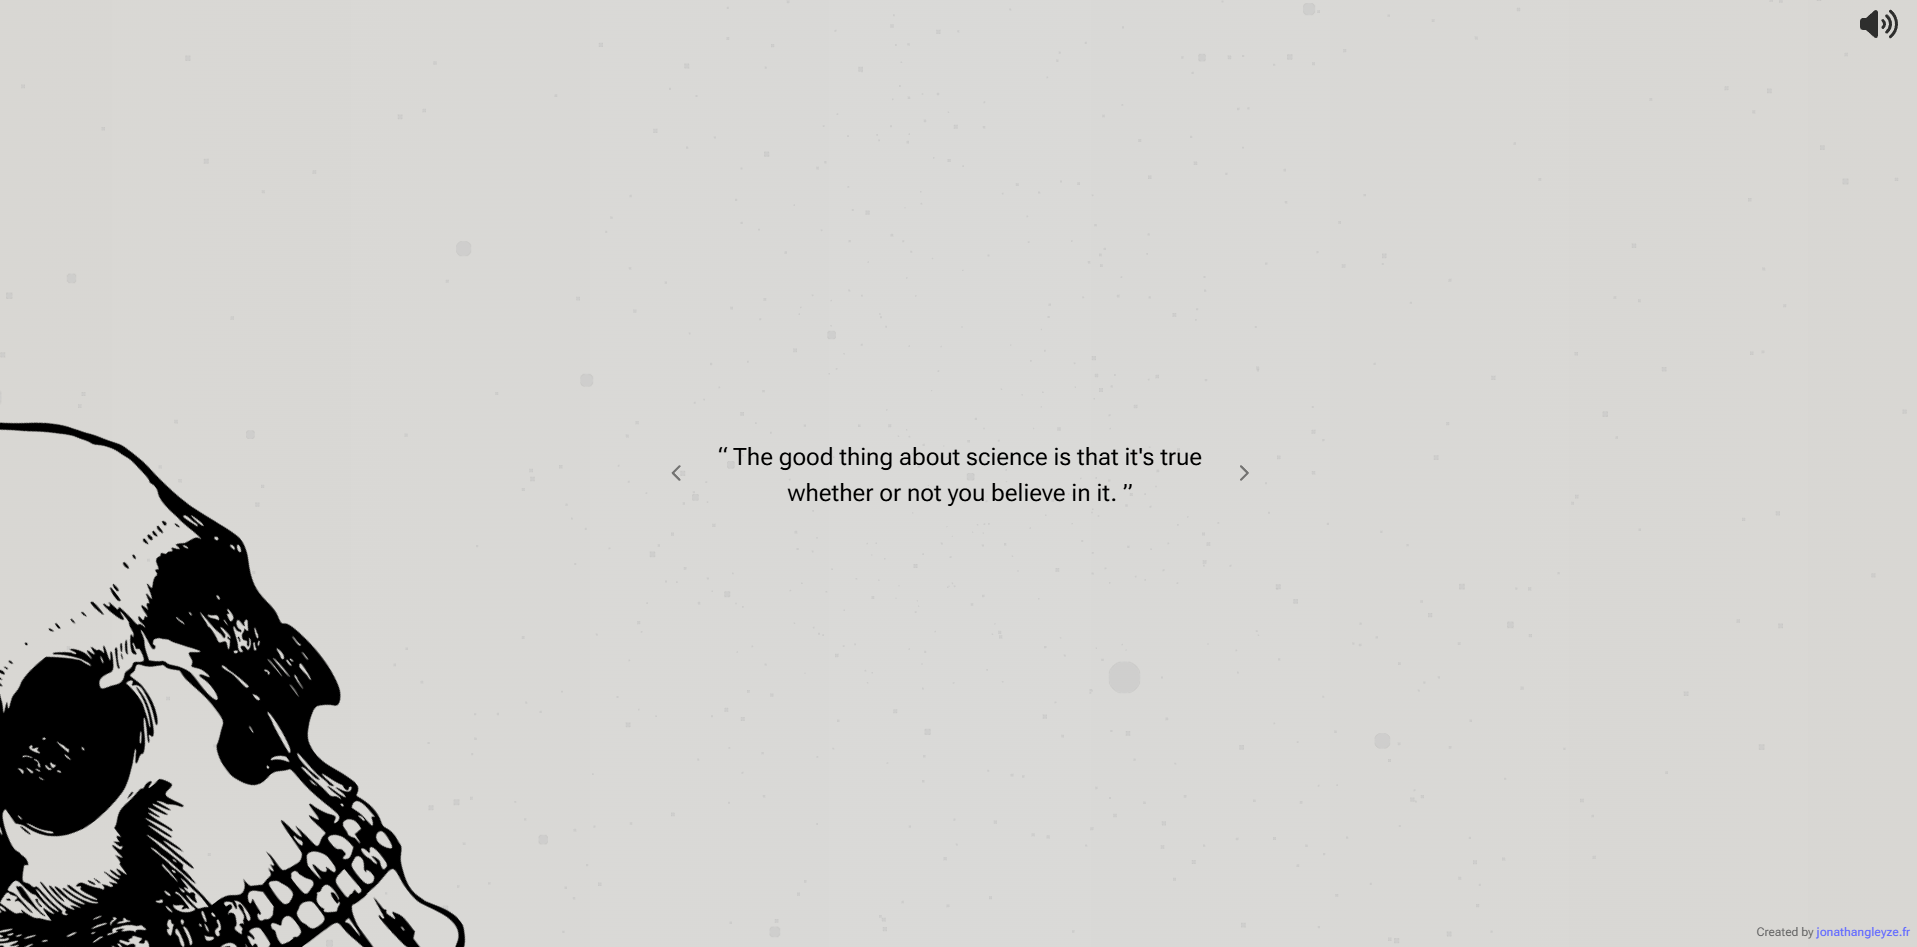
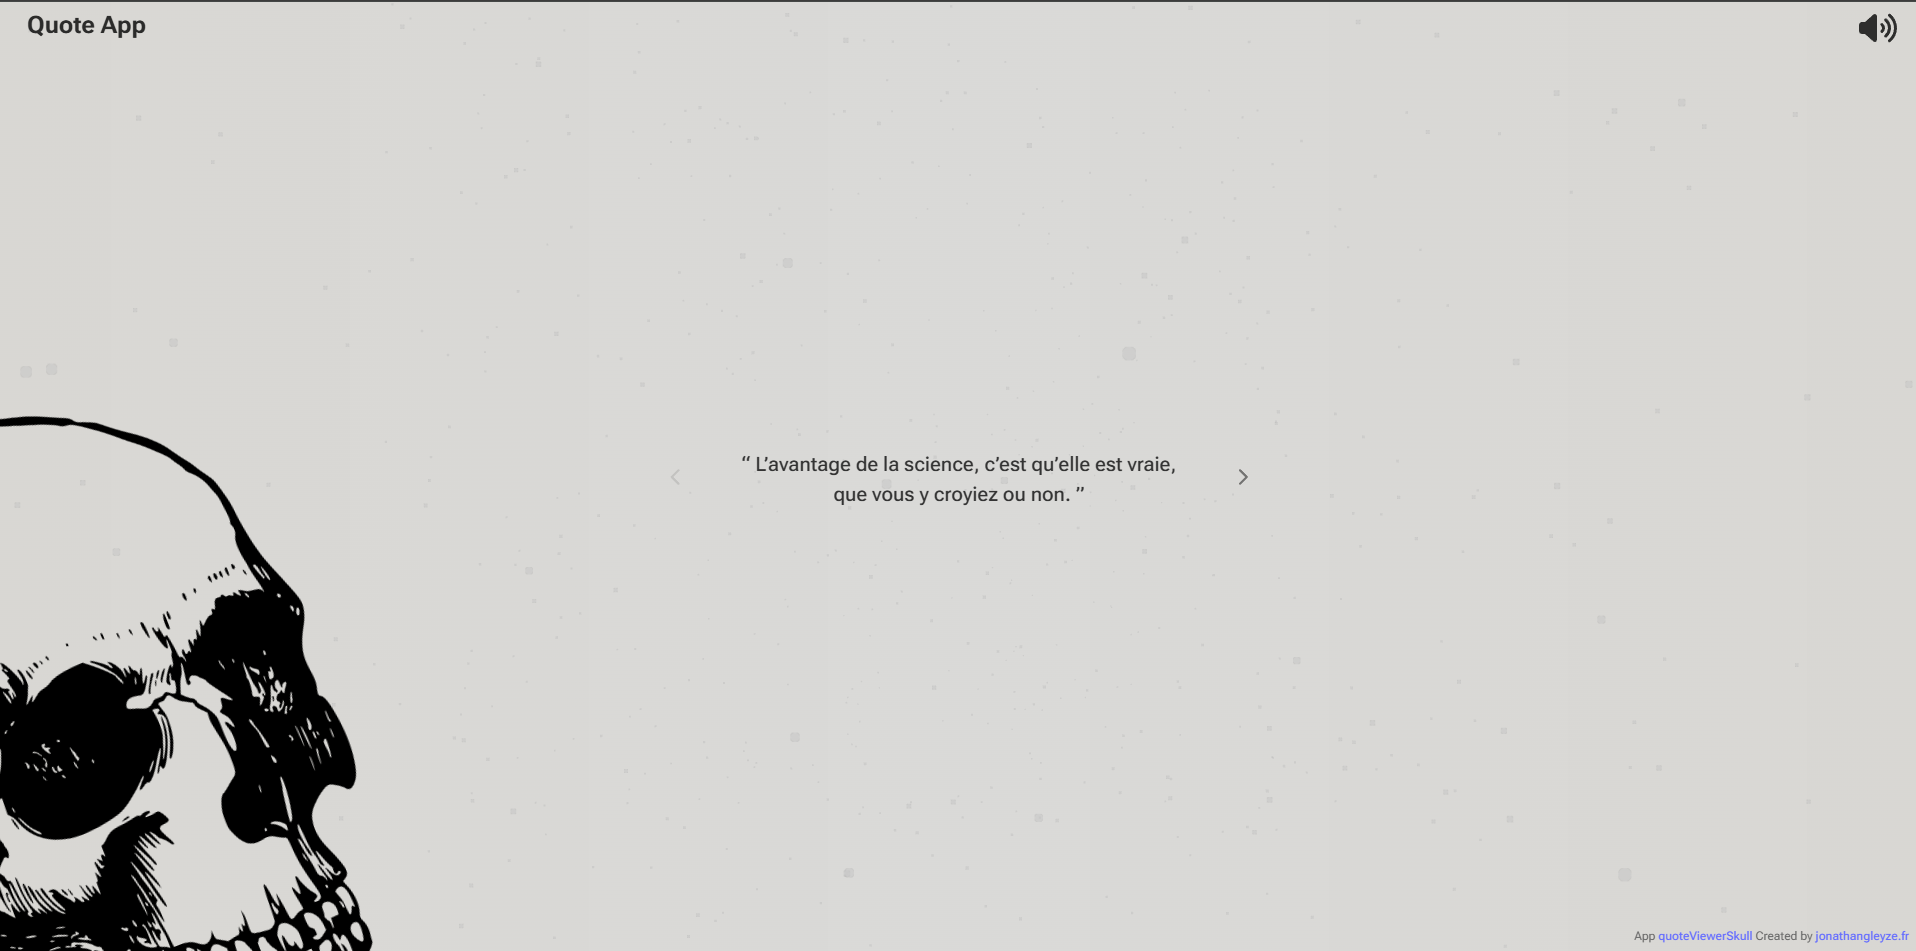
✨ Add MIT license file and update README with license information; enhance footer with app link

diff --git a/src/App.jsx b/src/App.jsx
@@ -129,7 +129,7 @@ function App() {
       {fullPageOpen ? <QuoteLong /> : <QuoteSimple />}
 
       <div className="footer">
-        Created by <a href="https://jonathangleyze.fr">jonathangleyze.fr</a>
+        App <a href='https://github.com/coockieHunt/quoteViewerSkull'>quoteViewerSkull</a> Created by <a href="https://jonathangleyze.fr">jonathangleyze.fr</a>
       </div>
     </>
   );

diff --git a/README.md b/README.md
@@ -1,53 +1,56 @@
-# Quote JSON Format
+# Quote Display App / ENG
 
-The `src/quote.json` file contains an array of objects. Each object can represent either a simple quote or a more detailed entry with a title and text.
+A small React (Vite) project to display quotes and longer texts with an interactive skull animation that follows the mouse, sound interactions, and handy controls.
 
-## Examples
+---
 
-### Simple Quote
+## JSON File Format
+
+The `src/quote.json` file contains an array of objects. Each object can represent either a simple quote or a detailed entry with a title and text.
+
+### Example — Simple Quote
 ```json
 {
-	"quote": "Science is a way of thinking much more than it is a body of knowledge."
+  "quote": "Science is a way of thinking much more than it is a body of knowledge."
 }
 ```
 
-### Title and Text Entry
+### Example — Title and Text Entry
 ```json
 {
-	"title": "Les sœur jumelle de la compréhension",
-	"text": "Aussi loin que je me souvienne, j’ai toujours apprécié la science. ..."
+  "title": "The Twin Sisters of Understanding",
+  "text": "As far as I can remember, I have always appreciated science..."
 }
 ```
 
-## Usage in App
-- If an entry contains a `quote` property, the app displays it as a quote.
-- If an entry contains a `title` (and no `quote`), the app displays the title only.
-# Screen Component
+**Usage in the App:**
+- If an object contains `quote`, it is displayed as a short quote.
+- If it contains `title` (and optionally `text`), it is displayed as a long text entry.
 
-The `Screen` component is a simple wrapper for centering content and filling the viewport.
+---
 
-## Usage
+## Screens
 
-Import and use in your React app:
-You can customize the styles in `src/screen/screen.css`.
+- Normal view  
+![short view](./screen/screen.png?raw=true "normal view")
 
+- Long text view  
+![long view](./screen/screen_long.png?raw=true "long text view")
 
-# Quote Display App
-
-A simple React application for displaying quotes with interactive mouse-following animations.
-
-## Screen
-![Alt text](./screen/screen.png?raw=true "Optional Title")
+---
 
 ## Features
 
-- Interactive skull animation that follows mouse movement
-- Dynamic rotation based on cursor position
-- Smooth animation with customizable parameters
-- Quote display component
-- smoth sound interact
-- muted btn
-- copy quote
+- Interactive skull animation following the mouse  
+- Dynamic rotation based on cursor position  
+- Smooth animations with customizable parameters  
+- Quote and long text display  
+- Click sound interaction  
+- Mute button  
+- Copy quote to clipboard  
+- Expandable view for long texts
+
+---
 
 ## Installation
 
@@ -55,30 +58,157 @@ A simple React application for displaying quotes with interactive mouse-followin
 npm install
 ```
 
-## Development
+### Development
 
 ```bash
 npm run dev
 ```
 
-## Build
+### Build
 
 ```bash
 npm run build
 ```
 
+---
+
 ## Technologies
 
-- React
-- Vite
-- CSS3 Animations
+- React  
+- Vite  
+- CSS3 Animations  
+- Web Audio API (for sound effects)
 
-## Todo List
-- add loading animation
+---
 
-- Add expandable quotes for long texts
+## TODO
+
+- Add loading animation  
+- Add unit tests for Quote component  
+- Improve accessibility (keyboard navigation, ARIA labels)
+
+---
 
 ## License & Credits
+
+(_wirte song_)
+freesound_community write song (Sound Effect by <a href="https://pixabay.com/users/freesound_community-46691455/?utm_source=link-attribution&utm_medium=referral&utm_campaign=music&utm_content=38629">freesound_community</a> from <a href="https://pixabay.com/sound-effects//?utm_source=link-attribution&utm_medium=referral&utm_campaign=music&utm_content=38629">Pixabay</a>)
+
+(_magic song_)
+Sound Effect by <a href="https://pixabay.com/users/freesound_crunchpixstudio-49769582/?utm_source=link-attribution&utm_medium=referral&utm_campaign=music&utm_content=388923">Crunchpix Studio</a> from <a href="https://pixabay.com/sound-effects//?utm_source=link-attribution&utm_medium=referral&utm_campaign=music&utm_content=388923">Pixabay</a>
+
+(_skull svg_)
+Image by <a href="https://pixabay.com/users/openclipart-vectors-30363/?utm_source=link-attribution&utm_medium=referral&utm_campaign=image&utm_content=2028284">OpenClipart-Vectors</a> from <a href="https://pixabay.com//?utm_source=link-attribution&utm_medium=referral&utm_campaign=image&utm_content=2028284">Pixabay</a>
+
+---
+
+## LICENSE — MIT
+
+MIT License
+
+Copyright (c) 2025 gleyze jonathan
+
+Permission is hereby granted, free of charge, to any person obtaining a copy of this software and associated documentation files (the “Software”), to deal in the Software without restriction, including without limitation the rights to use, copy, modify, merge, publish, distribute, sublicense, and/or sell copies of the Software, and to permit persons to whom the Software is furnished to do so, subject to the following conditions:
+
+The above copyright notice and this permission notice shall be included in all copies or substantial portions of the Software.
+
+THE SOFTWARE IS PROVIDED “AS IS”, WITHOUT WARRANTY OF ANY KIND, EXPRESS OR IMPLIED, INCLUDING BUT NOT LIMITED TO THE WARRANTIES OF MERCHANTABILITY, FITNESS FOR A PARTICULAR PURPOSE AND NONINFRINGEMENT. IN NO EVENT SHALL THE AUTHORS OR COPYRIGHT HOLDERS BE LIABLE FOR ANY CLAIM, DAMAGES OR OTHER LIABILITY, WHETHER IN AN ACTION OF CONTRACT, TORT OR OTHERWISE, ARISING FROM, OUT OF OR IN CONNECTION WITH THE SOFTWARE OR THE USE OR OTHER DEALINGS IN THE SOFTWARE.
+
+---
+
+# Application d’Affichage de Citations / FR
+
+Un projet React (Vite) permettant d’afficher des citations et de longs textes avec une animation interactive de crâne suivant le curseur, des effets sonores et des contrôles pratiques.
+
+---
+
+## Format du fichier JSON
+
+Le fichier `src/quote.json` contient un tableau d’objets. Chaque objet peut être une citation simple ou une entrée détaillée avec un titre et un texte.
+
+### Exemple — Citation simple
+```json
+{
+  "quote": "La science est une manière de penser bien plus qu'un simple ensemble de connaissances."
+}
+```
+
+### Exemple — Titre + Texte
+```json
+{
+  "title": "Les sœurs jumelles de la compréhension",
+  "text": "Aussi loin que je me souvienne, j’ai toujours apprécié la science..."
+}
+```
+
+**Utilisation dans l’application :**  
+- Si un objet contient `quote`, il est affiché comme une citation courte.  
+- S’il contient `title` (et éventuellement `text`), il est affiché comme un texte long.
+
+---
+
+## Captures d’écran
+
+- Vue normale  
+![short view](./screen/screen.png?raw=true "vue normale")
+
+- Vue texte long  
+![long view](./screen/screen_long.png?raw=true "vue texte long")
+
+---
+
+## Fonctionnalités
+
+- Animation de crâne interactive suivant la souris  
+- Rotation dynamique selon la position du curseur  
+- Animations fluides et personnalisables  
+- Affichage des citations et textes longs  
+- Son de clic interactif  
+- Bouton muet  
+- Copier la citation dans le presse-papier  
+- Vue extensible pour les longs textes
+
+---
+
+## Installation
+
+```bash
+npm install
+```
+
+### Développement
+
+```bash
+npm run dev
+```
+
+### Compilation
+
+```bash
+npm run build
+```
+
+---
+
+## Technologies
+
+- React  
+- Vite  
+- Animations CSS3  
+- Web Audio API (pour les effets sonores)
+
+---
+
+## À faire
+
+- Ajouter une animation de chargement  
+- Ajouter des tests unitaires pour le composant Quote  
+- Améliorer l’accessibilité (navigation clavier, labels ARIA)
+
+---
+
+## Licence et Crédits
+
 (_wirte song_)
 freesound_community write song (Sound Effect by <a href="https://pixabay.com/users/freesound_community-46691455/?utm_source=link-attribution&utm_medium=referral&utm_campaign=music&utm_content=38629">freesound_community</a> from <a href="https://pixabay.com/sound-effects//?utm_source=link-attribution&utm_medium=referral&utm_campaign=music&utm_content=38629">Pixabay</a>)
 
@@ -89,9 +219,20 @@ Sound Effect by <a href="https://pixabay.com/users/freesound_crunchpixstudio-497
 Image by <a href="https://pixabay.com/users/openclipart-vectors-30363/?utm_source=link-attribution&utm_medium=referral&utm_campaign=image&utm_content=2028284">OpenClipart-Vectors</a> from <a href="https://pixabay.com//?utm_source=link-attribution&utm_medium=referral&utm_campaign=image&utm_content=2028284">Pixabay</a>
 
 
+---
 
+## LICENCE — MIT
 
-## Icons
+Licence MIT
 
-- FontAwesome <a href="https://fontawesome.com/"> here </a>
-- favicon by SVG Repo <a href="https://www.svgrepo.com/svg/478631/fountain-pen"> here </a>
+Copyright (c) 2025 gleyze jonathan
+
+Permission est accordée, gratuitement, à toute personne obtenant une copie de ce logiciel et des fichiers de documentation associés (le « Logiciel »), d'utiliser le Logiciel sans restriction, y compris sans limitation les droits d'utiliser, copier, modifier, fusionner, publier, distribuer, sous-licencier et/ou vendre des copies du Logiciel, et de permettre aux personnes à qui le Logiciel est fourni de le faire, sous réserve des conditions suivantes :
+
+L'avis de copyright ci-dessus et cet avis d'autorisation seront inclus dans toutes les copies ou parties substantielles du Logiciel.
+
+LE LOGICIEL EST FOURNI « TEL QUEL », SANS GARANTIE D'AUCUNE SORTE, EXPLICITE OU IMPLICITE, Y COMPRIS MAIS SANS S'Y LIMITER AUX GARANTIES DE QUALITÉ MARCHANDE, D'ADÉQUATION À UN USAGE PARTICULIER ET D'ABSENCE DE CONTREFAÇON. EN AUCUN CAS LES AUTEURS OU DÉTENTEURS DU COPYRIGHT NE POURRONT ÊTRE TENUS RESPONSABLES DE TOUT DOMMAGE, RÉCLAMATION OU AUTRE RESPONSABILITÉ, QU’ELLE SOIT CONTRACTUELLE, DÉLICTUELLE OU AUTRE, DÉCOULANT DE L’UTILISATION OU DE L’IMPOSSIBILITÉ D’UTILISER LE LOGICIEL.
+
+---
+
+*README version française (mise à jour octobre 2025)*
